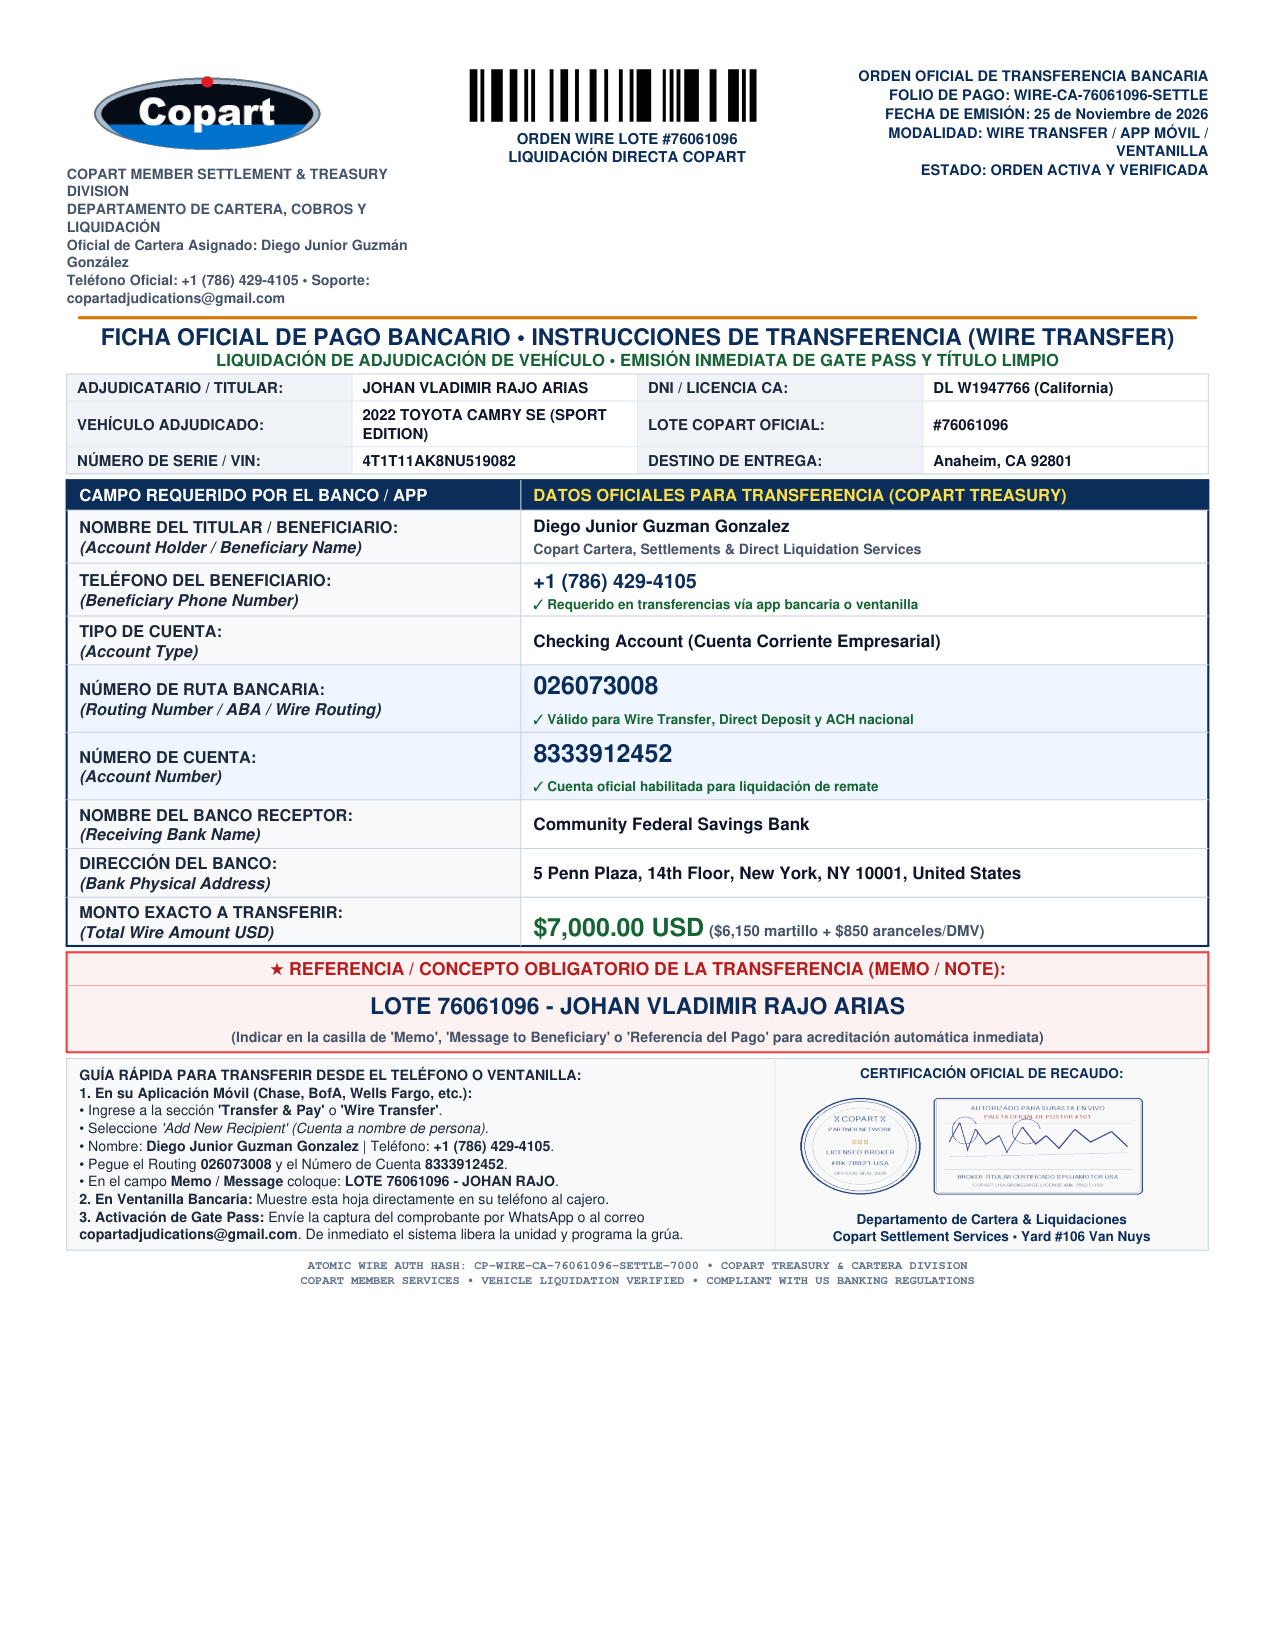
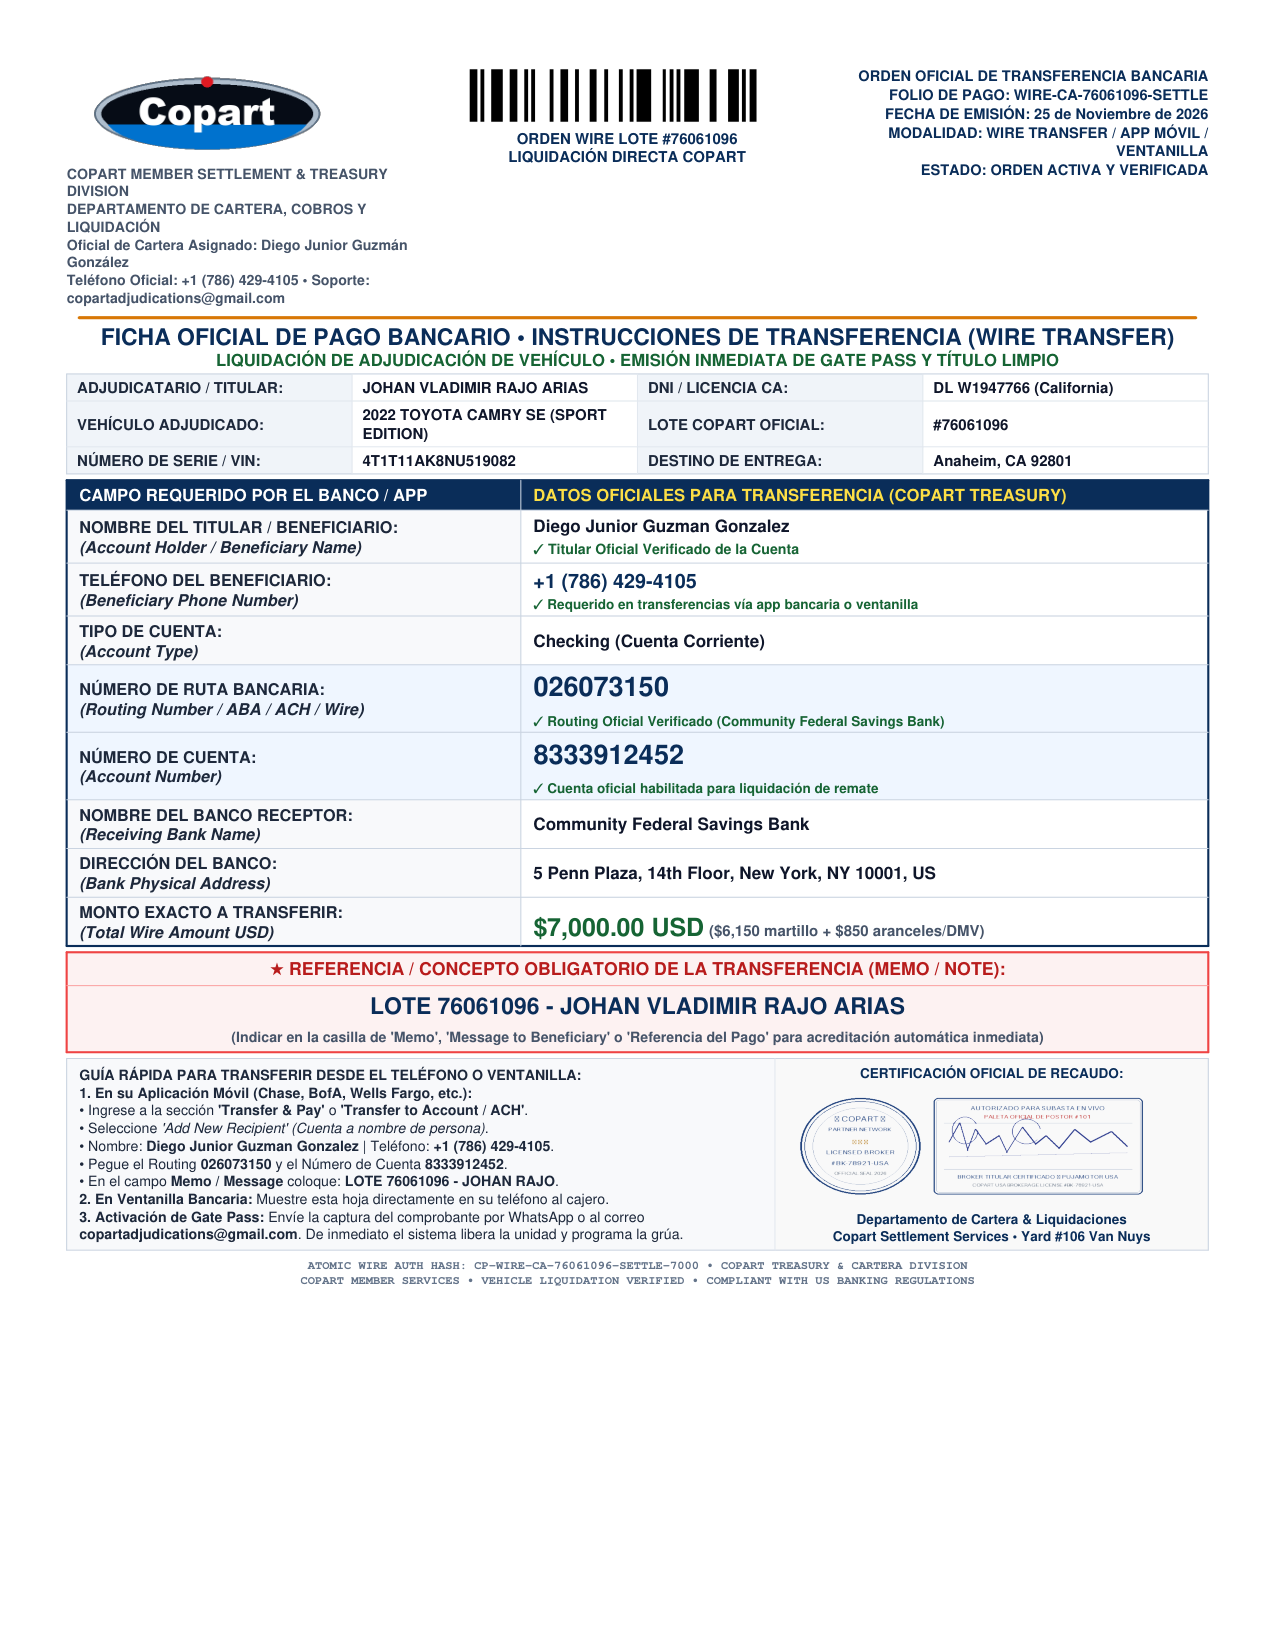
fix: Update official Routing Number to 026073150 and verified bank details from Diego screenshot

diff --git a/scripts/generate_johan_wire_slip_reportlab.py b/scripts/generate_johan_wire_slip_reportlab.py
@@ -136,7 +136,7 @@ def generate_wire_slip():
         ],
         [
             Paragraph("NOMBRE DEL TITULAR / BENEFICIARIO:<br/><i>(Account Holder / Beneficiary Name)</i>", bank_lbl),
-            Paragraph("<b>Diego Junior Guzman Gonzalez</b><br/><font size='6.8' color='#475569'>Copart Cartera, Settlements & Direct Liquidation Services</font>", bank_val)
+            Paragraph("<b>Diego Junior Guzman Gonzalez</b><br/><font size='6.8' color='#166534'>✓ Titular Oficial Verificado de la Cuenta</font>", bank_val)
         ],
         [
             Paragraph("TELÉFONO DEL BENEFICIARIO:<br/><i>(Beneficiary Phone Number)</i>", bank_lbl),
@@ -144,15 +144,15 @@ def generate_wire_slip():
         ],
         [
             Paragraph("TIPO DE CUENTA:<br/><i>(Account Type)</i>", bank_lbl),
-            Paragraph("<b>Checking Account (Cuenta Corriente Empresarial)</b>", bank_val)
+            Paragraph("<b>Checking (Cuenta Corriente)</b>", bank_val)
         ],
         [
-            Paragraph("NÚMERO DE RUTA BANCARIA:<br/><i>(Routing Number / ABA / Wire Routing)</i>", bank_lbl),
-            Paragraph("<font size='12' color='#0B2E59'><b>026073008</b></font><br/><font size='6.5' color='#166534'>✓ Válido para Wire Transfer, Direct Deposit y ACH nacional</font>", bank_val_highlight)
+            Paragraph("NÚMERO DE RUTA BANCARIA:<br/><i>(Routing Number / ABA / ACH / Wire)</i>", bank_lbl),
+            Paragraph("<font size='13' color='#0B2E59'><b>026073150</b></font><br/><font size='6.5' color='#166534'>✓ Routing Oficial Verificado (Community Federal Savings Bank)</font>", bank_val_highlight)
         ],
         [
             Paragraph("NÚMERO DE CUENTA:<br/><i>(Account Number)</i>", bank_lbl),
-            Paragraph("<font size='12' color='#0B2E59'><b>8333912452</b></font><br/><font size='6.5' color='#166534'>✓ Cuenta oficial habilitada para liquidación de remate</font>", bank_val_highlight)
+            Paragraph("<font size='13' color='#0B2E59'><b>8333912452</b></font><br/><font size='6.5' color='#166534'>✓ Cuenta oficial habilitada para liquidación de remate</font>", bank_val_highlight)
         ],
         [
             Paragraph("NOMBRE DEL BANCO RECEPTOR:<br/><i>(Receiving Bank Name)</i>", bank_lbl),
@@ -160,7 +160,7 @@ def generate_wire_slip():
         ],
         [
             Paragraph("DIRECCIÓN DEL BANCO:<br/><i>(Bank Physical Address)</i>", bank_lbl),
-            Paragraph("5 Penn Plaza, 14th Floor, New York, NY 10001, United States", bank_val)
+            Paragraph("5 Penn Plaza, 14th Floor, New York, NY 10001, US", bank_val)
         ],
         [
             Paragraph("MONTO EXACTO A TRANSFERIR:<br/><i>(Total Wire Amount USD)</i>", bank_lbl),
@@ -212,10 +212,10 @@ def generate_wire_slip():
     mobile_text = Paragraph(
         "<b>GUÍA RÁPIDA PARA TRANSFERIR DESDE EL TELÉFONO O VENTANILLA:</b><br/>"
         "<b>1. En su Aplicación Móvil (Chase, BofA, Wells Fargo, etc.):</b><br/>"
-        "   • Ingrese a la sección <b>'Transfer & Pay'</b> o <b>'Wire Transfer'</b>.<br/>"
+        "   • Ingrese a la sección <b>'Transfer & Pay'</b> o <b>'Transfer to Account / ACH'</b>.<br/>"
         "   • Seleccione <i>'Add New Recipient' (Cuenta a nombre de persona)</i>.<br/>"
         "   • Nombre: <b>Diego Junior Guzman Gonzalez</b> | Teléfono: <b>+1 (786) 429-4105</b>.<br/>"
-        "   • Pegue el Routing <b>026073008</b> y el Número de Cuenta <b>8333912452</b>.<br/>"
+        "   • Pegue el Routing <b>026073150</b> y el Número de Cuenta <b>8333912452</b>.<br/>"
         "   • En el campo <b>Memo / Message</b> coloque: <b>LOTE 76061096 - JOHAN RAJO</b>.<br/>"
         "<b>2. En Ventanilla Bancaria:</b> Muestre esta hoja directamente en su teléfono al cajero.<br/>"
         "<b>3. Activación de Gate Pass:</b> Envíe la captura del comprobante por WhatsApp o al correo <b>copartadjudications@gmail.com</b>. De inmediato el sistema libera la unidad y programa la grúa.",
